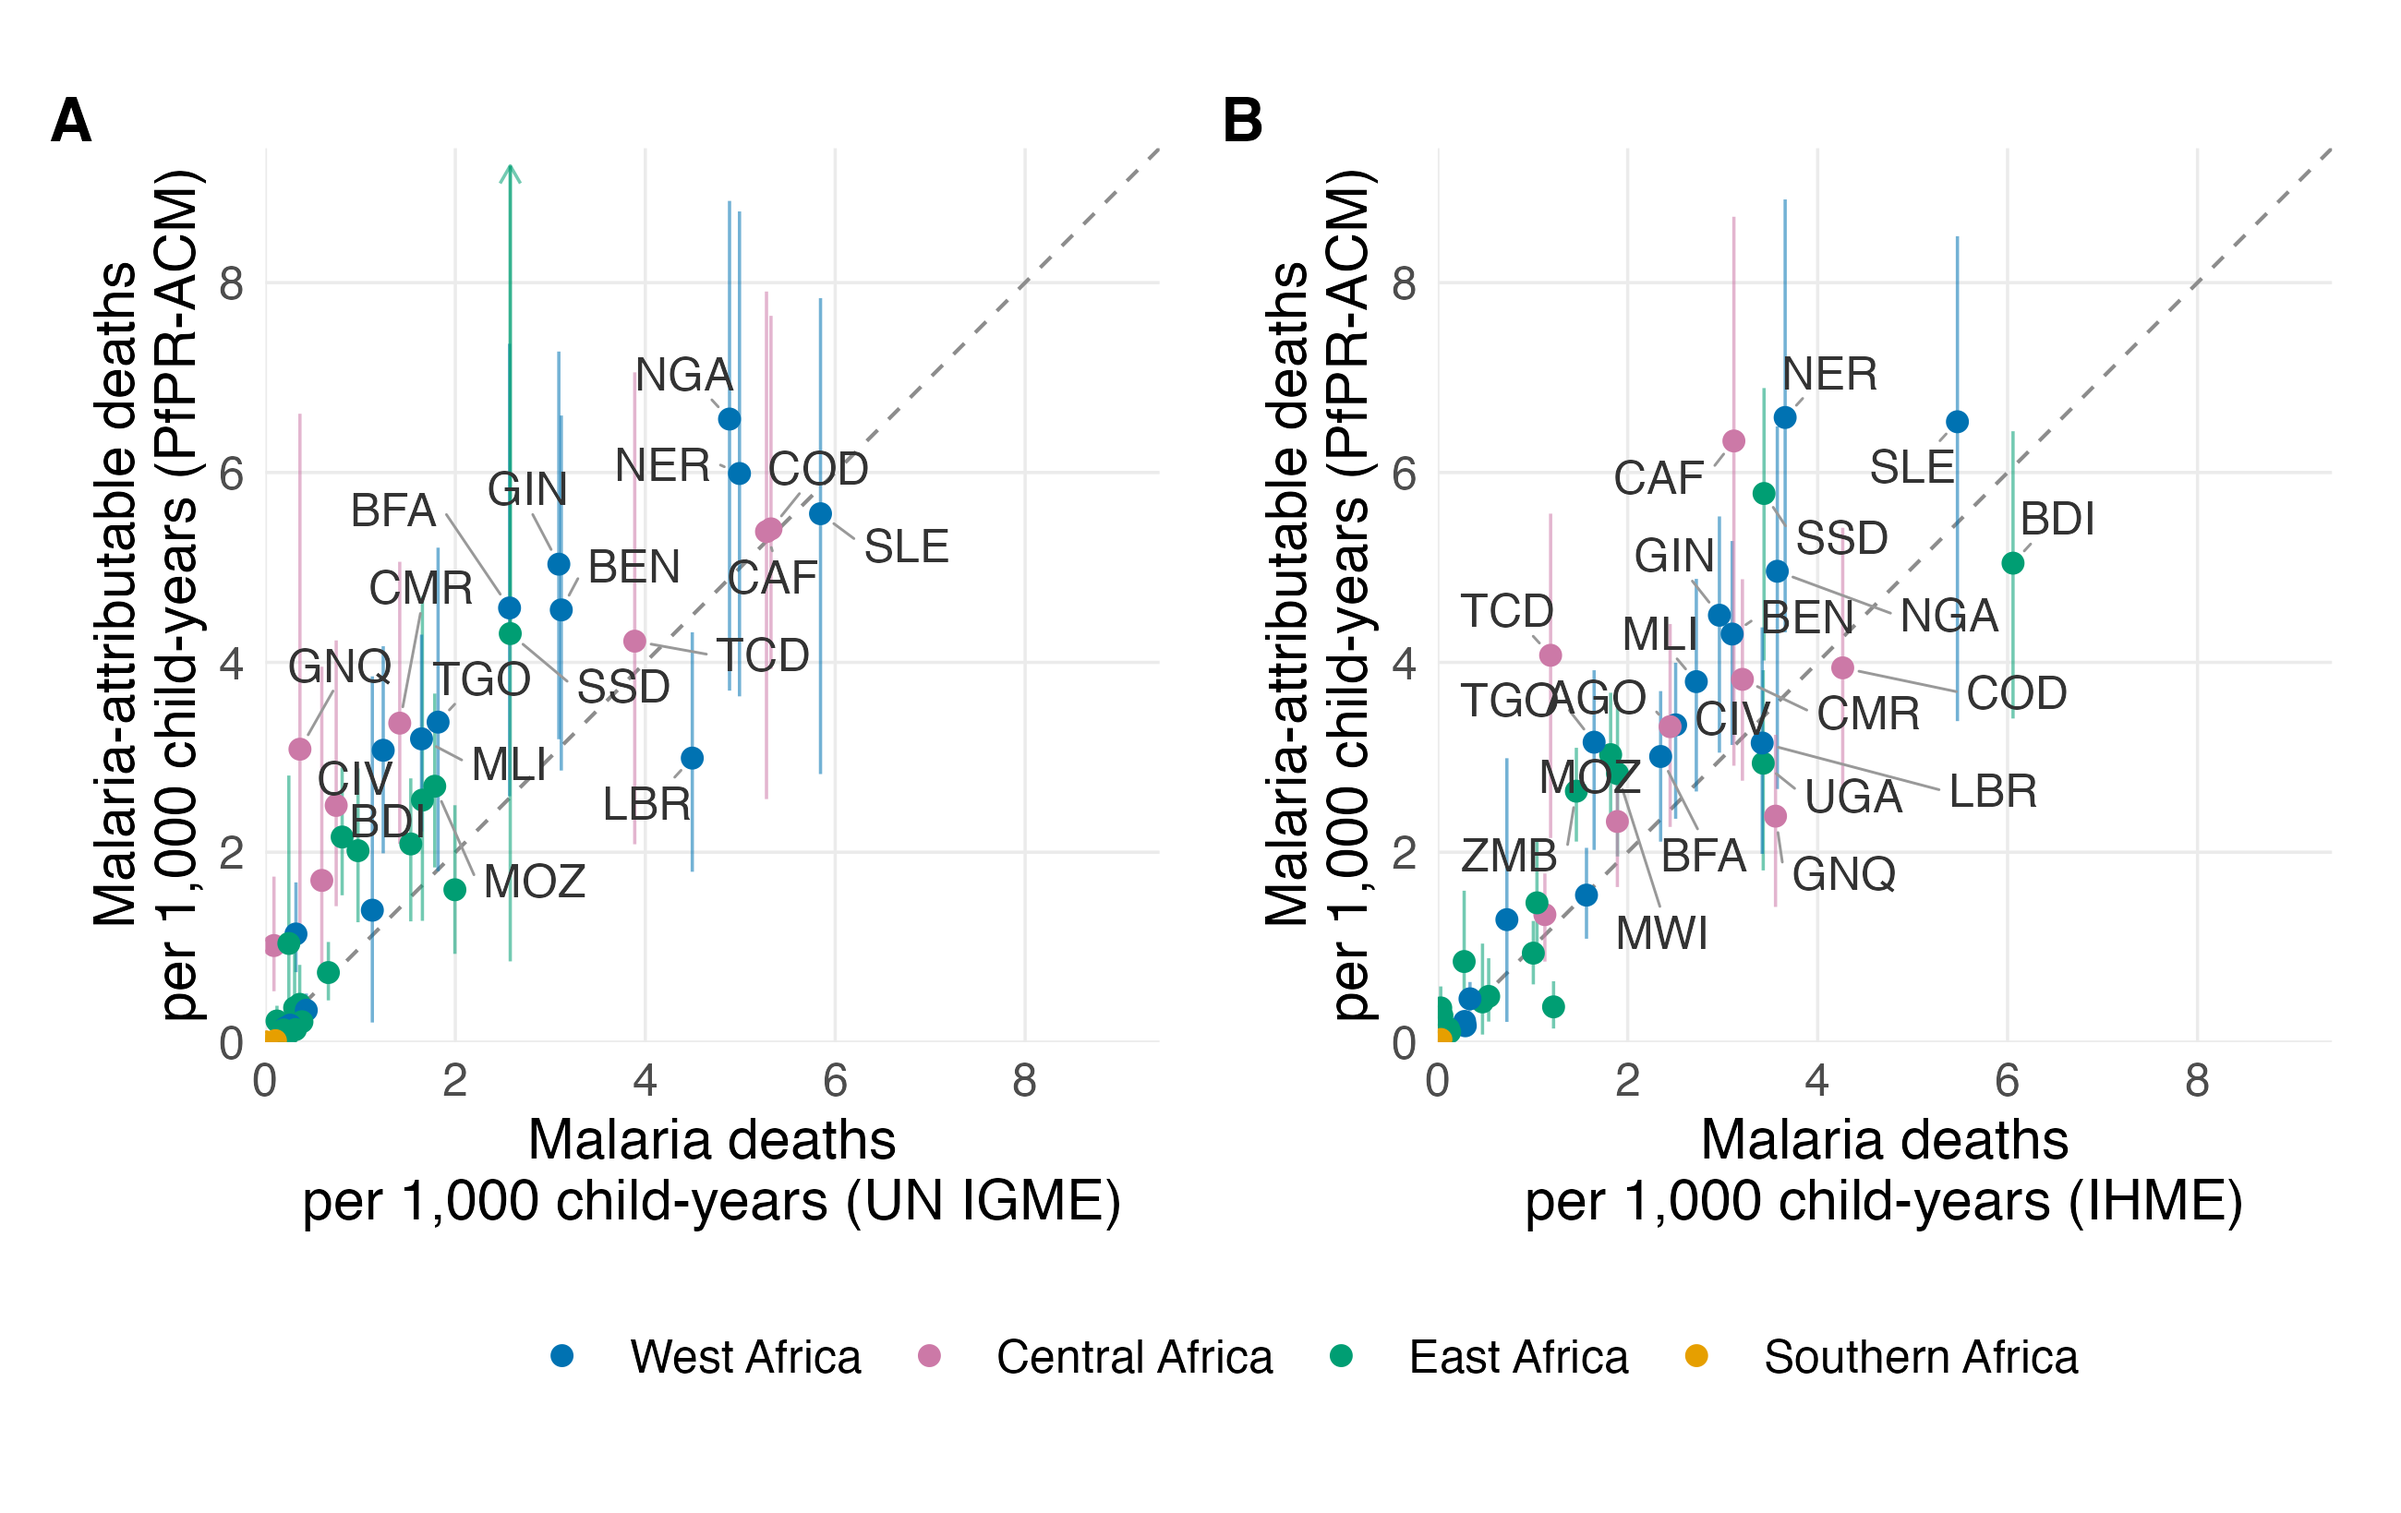
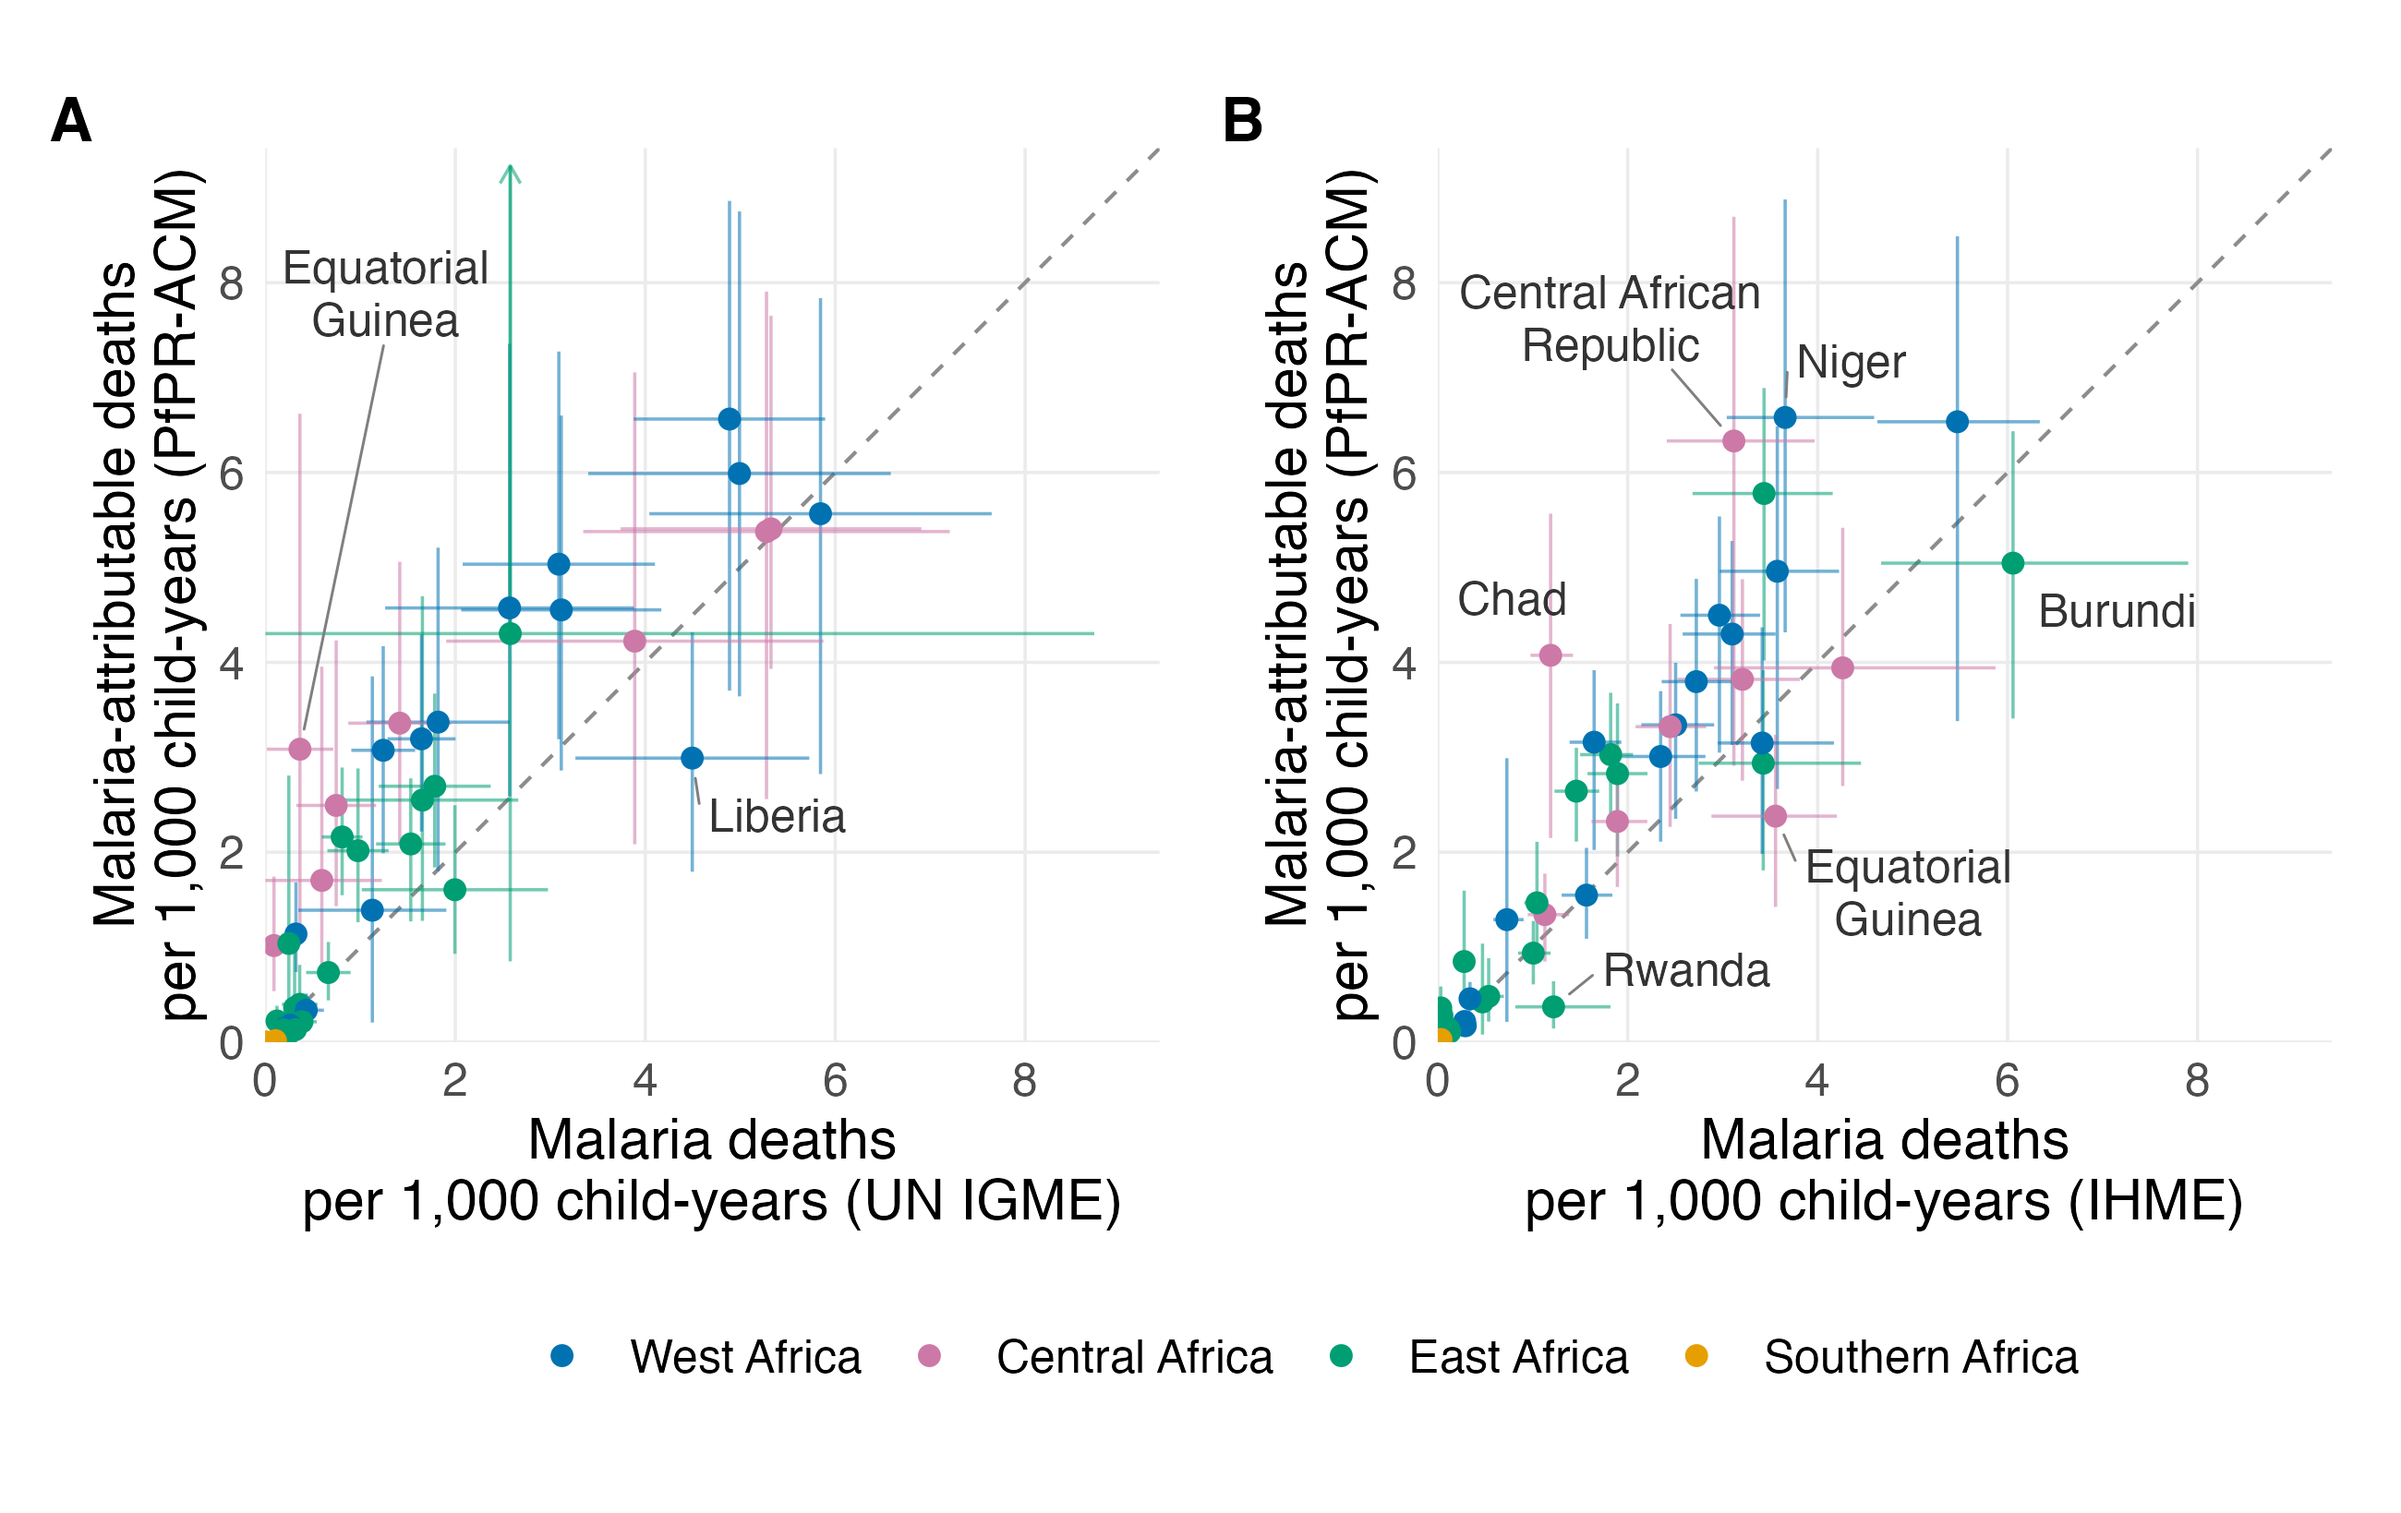
Paper export: Figure 5 with named outliers and intervals on both axes
Regenerated from the saved fits (report steps only); validation passed. Only Figure 5 and its captions
changed in paper/.

diff --git a/paper/figures/primary_figure_captions.md b/paper/figures/primary_figure_captions.md
@@ -32,6 +32,6 @@ File: `fig4_malaria_mortality_rates_unigme.png` (source `mortality_rates/fig_mal
 
 File: `fig5_model_vs_cause_specific_2024.png` (source `model_vs_cause_specific/fig5_model_vs_cause_specific_2024.png`; values in `model_vs_cause_specific/figure_data.csv`).
 
-**Figure. Malaria-attributable under-five mortality in 2024: PfPR-ACM model against cause-specific estimates.** Each point is a country; rates are deaths per 1,000 child-years under 5. (A) PfPR-ACM estimates using UN IGME all-cause mortality (y) against UN IGME (CA-CODE) malaria deaths (x), both over the UN WPP population under 5. (B) PfPR-ACM estimates using IHME all-cause mortality (y) against IHME malaria deaths (x), both over IHME person-years. The PfPR-ACM estimate counts all deaths averted if prevalence fell to zero (direct and indirect); the cause-specific estimates count deaths assigned to malaria as the underlying cause. The dashed line is equality; countries are coloured by UN M49 sub-region (Middle Africa as Central Africa), and those at 2.5 or more per 1,000 on either axis are labelled with their ISO 3166-1 alpha-3 codes. Spearman correlation: 0.91 (A) and 0.91 (B); the PfPR-ACM estimate is higher in 30 (A) and 26 (B) of 42 countries. Vertical lines are 95% uncertainty intervals of the PfPR-ACM estimates, from 500 joint draws of MAP's national PfPR[2–10], the all-cause deaths and the PfPR–death curves (Supplementary Methods); the cause-specific estimates are shown without their intervals. The lower bound exceeds the cause-specific estimate in 15 (A) and 12 (B) countries, and the upper bound is below it in 5 (A) and 5 (B). Intervals beyond the axes are truncated with an arrow: South Sudan in A (upper bound 14.2). CA-CODE takes malaria from WHO estimates in 13 low-burden countries; South Sudan's IHME all-cause mortality is its crisis-free value.
+**Figure. Malaria-attributable under-five mortality in 2024: PfPR-ACM model against cause-specific estimates.** Each point is a country; rates are deaths per 1,000 child-years under 5. (A) PfPR-ACM estimates using UN IGME all-cause mortality (y) against UN IGME (CA-CODE) malaria deaths (x), both over the UN WPP population under 5. (B) PfPR-ACM estimates using IHME all-cause mortality (y) against IHME malaria deaths (x), both over IHME person-years. The PfPR-ACM estimate counts all deaths averted if prevalence fell to zero (direct and indirect); the cause-specific estimates count deaths assigned to malaria as the underlying cause. The dashed line is equality; countries are coloured by UN M49 sub-region (Middle Africa as Central Africa). Countries where the PfPR-ACM estimate is more than 2.5 per 1,000 above the cause-specific estimate or more than 0.6 below it are named. Spearman correlation: 0.91 (A) and 0.91 (B); the PfPR-ACM estimate is higher in 30 (A) and 26 (B) of 42 countries. Vertical lines are 95% uncertainty intervals of the PfPR-ACM estimates, from 500 joint draws of MAP's national PfPR[2–10], the all-cause deaths and the PfPR–death curves (Supplementary Methods); horizontal lines are the published intervals of the cause-specific estimates (the 90% bounds of the UN IGME (CA-CODE) malaria deaths in A, and IHME's 95% uncertainty intervals in B). The lower bound exceeds the cause-specific estimate in 15 (A) and 12 (B) countries, and the upper bound is below it in 5 (A) and 5 (B). Intervals beyond the axes are truncated with an arrow: South Sudan in A (upper bound 14.2). CA-CODE takes malaria from WHO estimates in 13 low-burden countries; South Sudan's IHME all-cause mortality is its crisis-free value.
 
 [Source paths and hashes](manifest.csv). Copy the five main images into the manuscript's `figures/` folder and the supplementary images into `Supplementary Figures/`. No TeX edits are needed to prepare or copy the images; TeX references/captions are managed separately.

diff --git a/paper/figures/fig5_model_vs_cause_specific_2024_caption.md b/paper/figures/fig5_model_vs_cause_specific_2024_caption.md
@@ -1,3 +1,3 @@
 # Figure 5 caption — PfPR-ACM against cause-specific malaria mortality, by country
 
-**Figure. Malaria-attributable under-five mortality in 2024: PfPR-ACM model against cause-specific estimates.** Each point is a country; rates are deaths per 1,000 child-years under 5. (A) PfPR-ACM estimates using UN IGME all-cause mortality (y) against UN IGME (CA-CODE) malaria deaths (x), both over the UN WPP population under 5. (B) PfPR-ACM estimates using IHME all-cause mortality (y) against IHME malaria deaths (x), both over IHME person-years. The PfPR-ACM estimate counts all deaths averted if prevalence fell to zero (direct and indirect); the cause-specific estimates count deaths assigned to malaria as the underlying cause. The dashed line is equality; countries are coloured by UN M49 sub-region (Middle Africa as Central Africa), and those at 2.5 or more per 1,000 on either axis are labelled with their ISO 3166-1 alpha-3 codes. Spearman correlation: 0.91 (A) and 0.91 (B); the PfPR-ACM estimate is higher in 30 (A) and 26 (B) of 42 countries. Vertical lines are 95% uncertainty intervals of the PfPR-ACM estimates, from 500 joint draws of MAP's national PfPR[2–10], the all-cause deaths and the PfPR–death curves (Supplementary Methods); the cause-specific estimates are shown without their intervals. The lower bound exceeds the cause-specific estimate in 15 (A) and 12 (B) countries, and the upper bound is below it in 5 (A) and 5 (B). Intervals beyond the axes are truncated with an arrow: South Sudan in A (upper bound 14.2). CA-CODE takes malaria from WHO estimates in 13 low-burden countries; South Sudan's IHME all-cause mortality is its crisis-free value.
+**Figure. Malaria-attributable under-five mortality in 2024: PfPR-ACM model against cause-specific estimates.** Each point is a country; rates are deaths per 1,000 child-years under 5. (A) PfPR-ACM estimates using UN IGME all-cause mortality (y) against UN IGME (CA-CODE) malaria deaths (x), both over the UN WPP population under 5. (B) PfPR-ACM estimates using IHME all-cause mortality (y) against IHME malaria deaths (x), both over IHME person-years. The PfPR-ACM estimate counts all deaths averted if prevalence fell to zero (direct and indirect); the cause-specific estimates count deaths assigned to malaria as the underlying cause. The dashed line is equality; countries are coloured by UN M49 sub-region (Middle Africa as Central Africa). Countries where the PfPR-ACM estimate is more than 2.5 per 1,000 above the cause-specific estimate or more than 0.6 below it are named. Spearman correlation: 0.91 (A) and 0.91 (B); the PfPR-ACM estimate is higher in 30 (A) and 26 (B) of 42 countries. Vertical lines are 95% uncertainty intervals of the PfPR-ACM estimates, from 500 joint draws of MAP's national PfPR[2–10], the all-cause deaths and the PfPR–death curves (Supplementary Methods); horizontal lines are the published intervals of the cause-specific estimates (the 90% bounds of the UN IGME (CA-CODE) malaria deaths in A, and IHME's 95% uncertainty intervals in B). The lower bound exceeds the cause-specific estimate in 15 (A) and 12 (B) countries, and the upper bound is below it in 5 (A) and 5 (B). Intervals beyond the axes are truncated with an arrow: South Sudan in A (upper bound 14.2). CA-CODE takes malaria from WHO estimates in 13 low-burden countries; South Sudan's IHME all-cause mortality is its crisis-free value.
